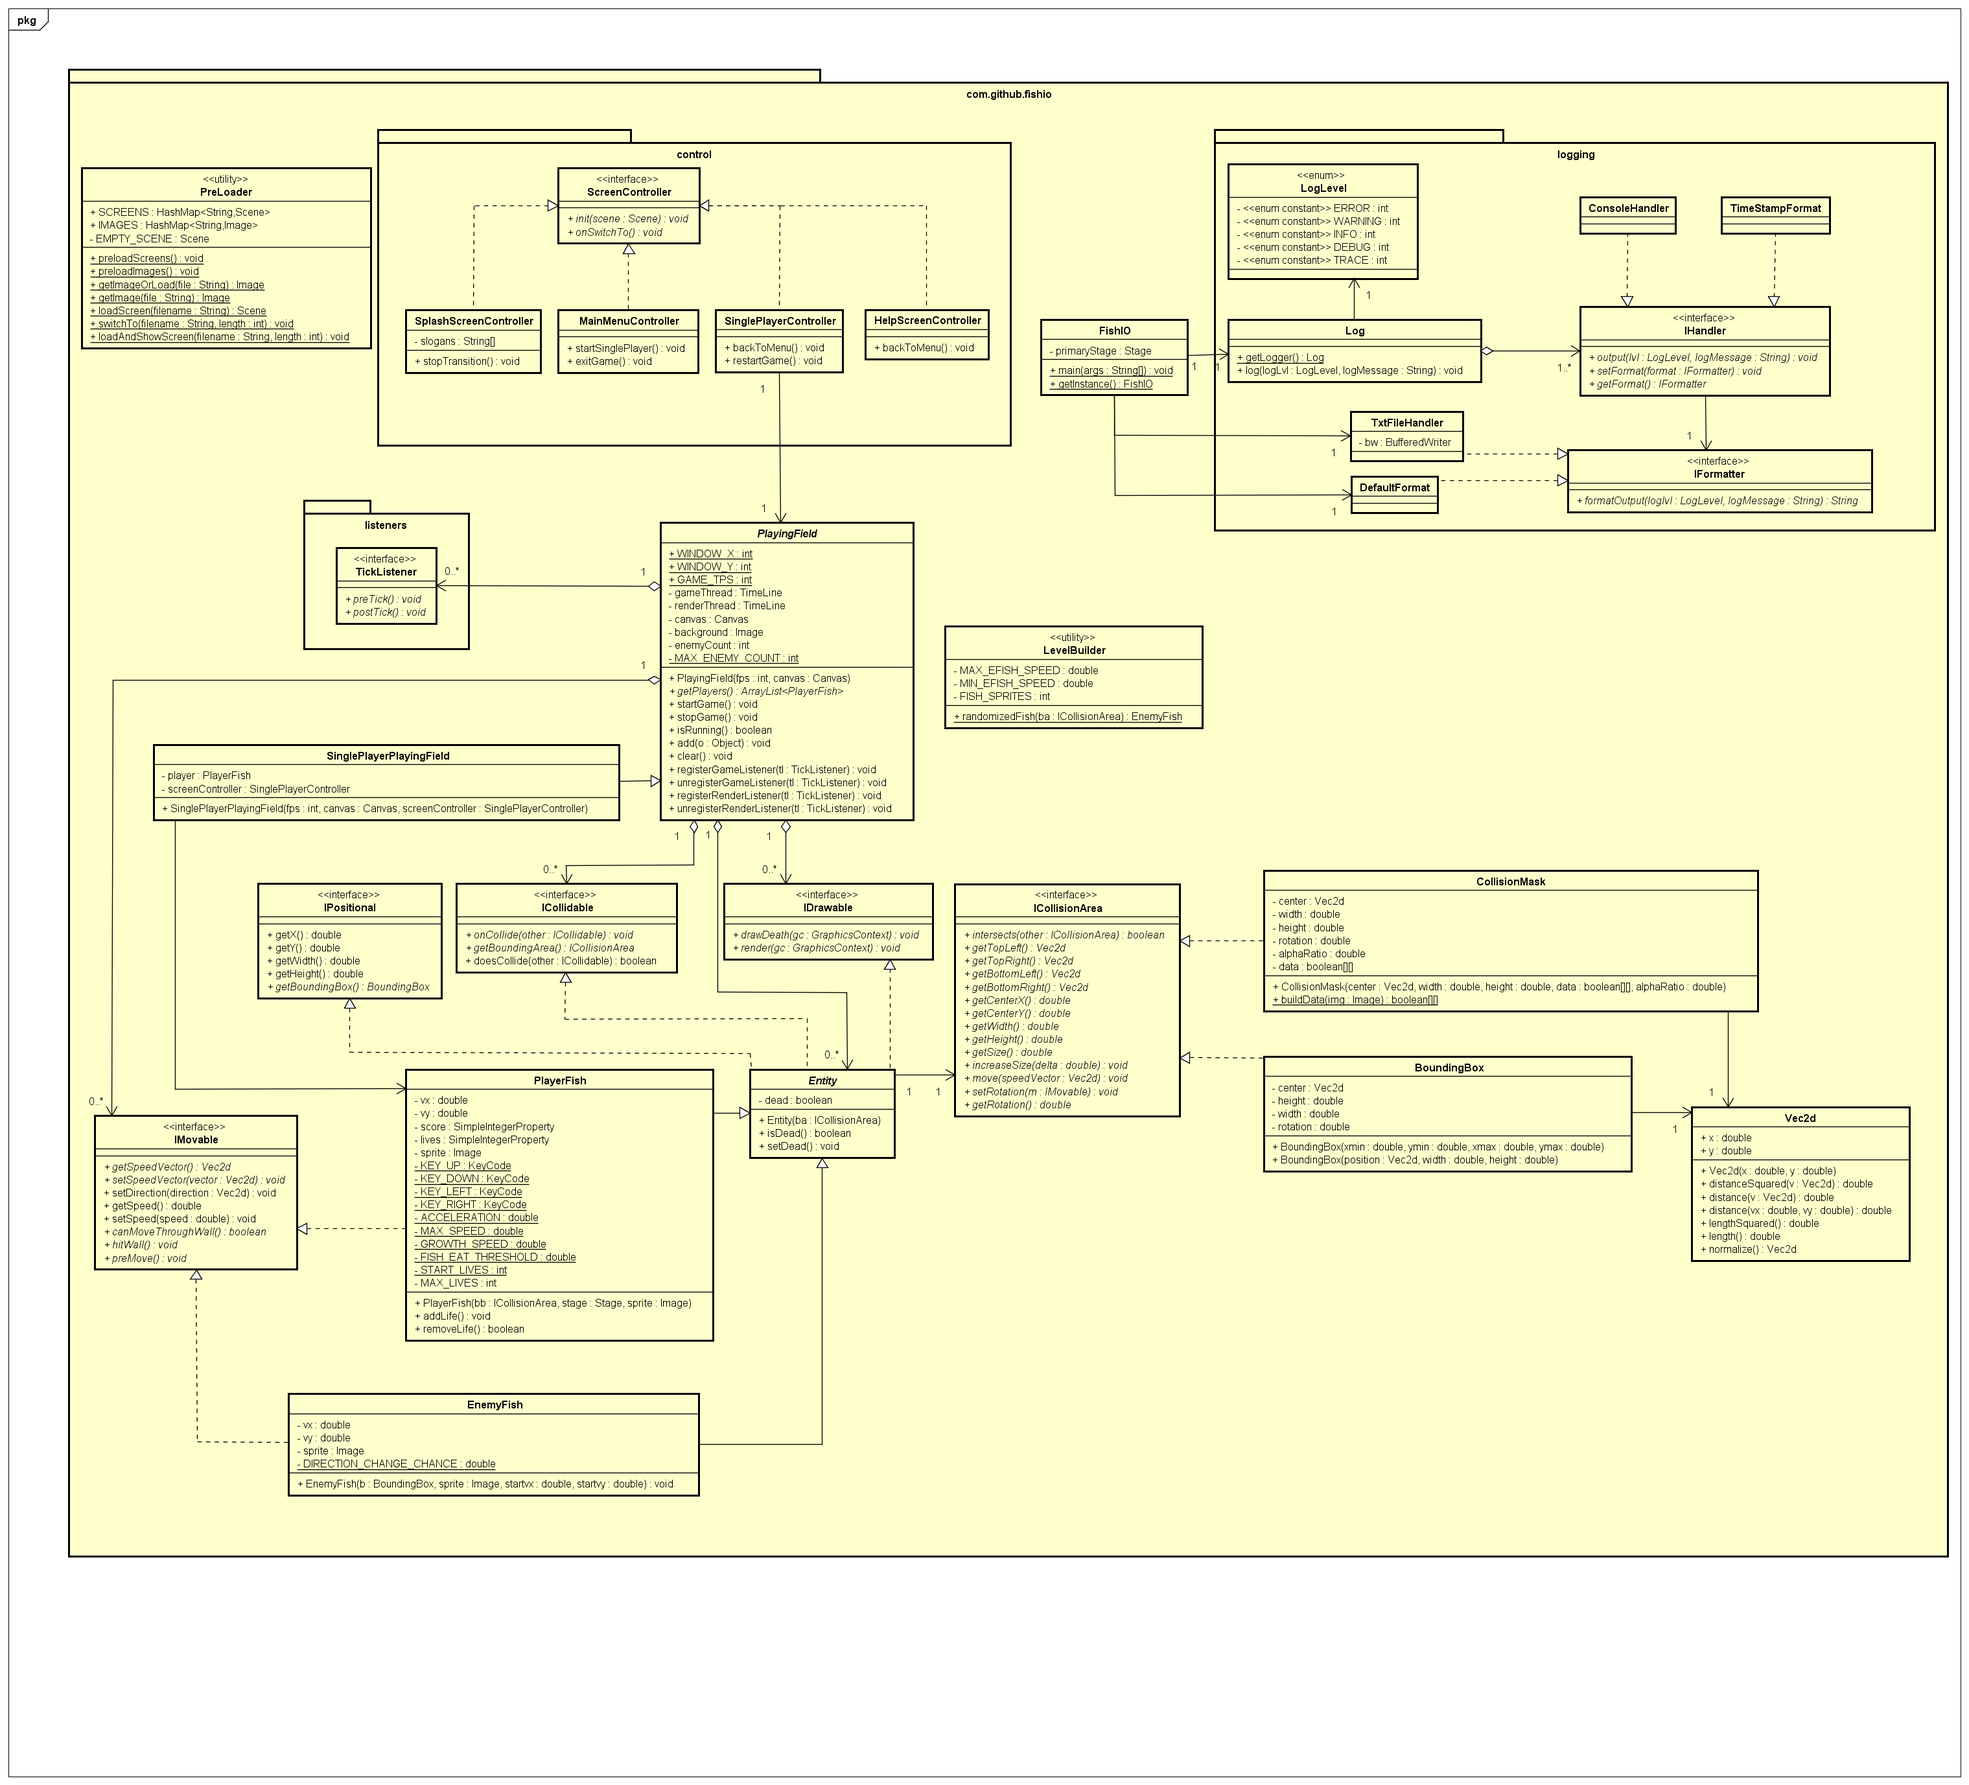
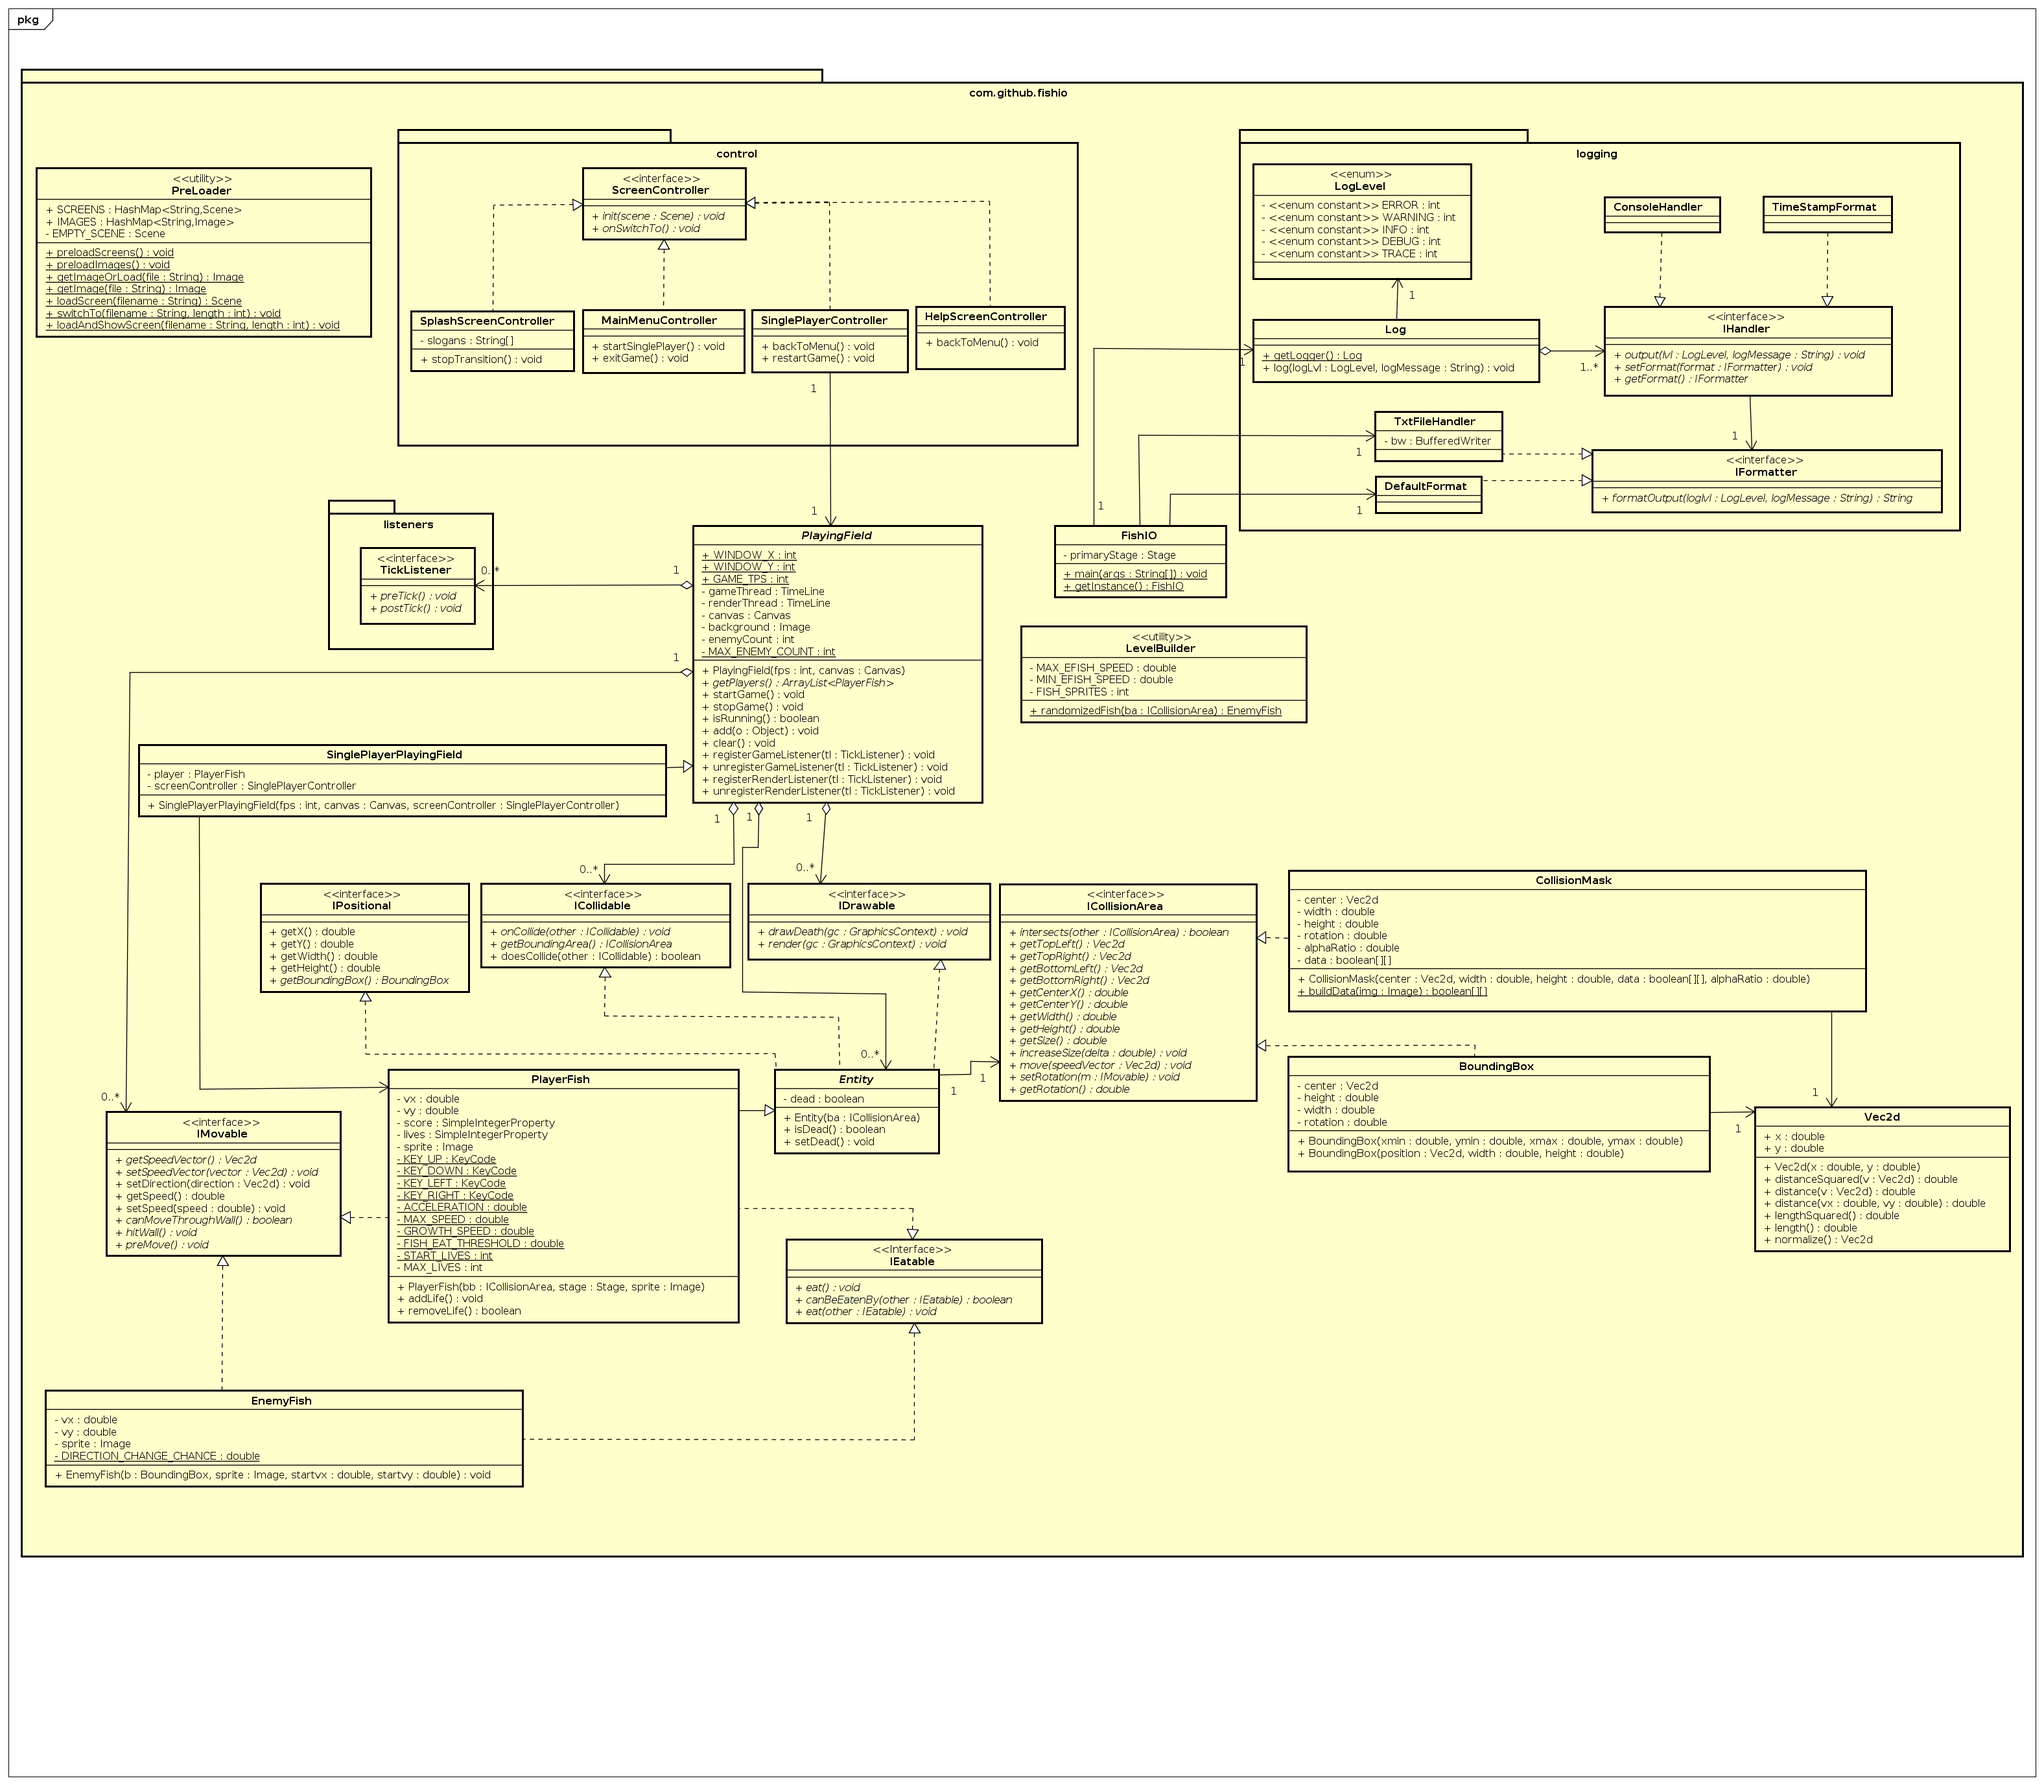
Replaced Fish class with IEatable interface
Replaced the Fish class with the IEatableInterface.
Results in nicer and more flexible code.
Also changed the UML to show the changes.

diff --git a/src/main/java/com/github/fishio/PlayerFish.java b/src/main/java/com/github/fishio/PlayerFish.java
@@ -11,7 +11,7 @@ import javafx.stage.Stage;
  * Represents a fish that the user can control using
  * the keyboard.
  */
-public class PlayerFish extends Fish {
+public class PlayerFish extends Entity implements IEatable, IMovable {
 
 	private double vx;
 	private double vy;
@@ -291,25 +291,18 @@ public class PlayerFish extends Fish {
 
 	@Override
 	public void onCollide(ICollidable other) {
-		if (other instanceof Fish) {
-			Fish fish = (Fish) other;
-			if (fish.isDead()) {
-				return;
-			}
+		if (other instanceof IEatable) {
+			IEatable eatable = (IEatable) other;
+		
+			if (eatable.canBeEatenBy(this)) {
+				eatable.eat();
+				this.addPoints((int) (eatable.getSize() / 200));
+				double dSize = GROWTH_SPEED * eatable.getSize() / getSize();
+				getBoundingArea().increaseSize(dSize);				
+			} 
 
-			double tsize = this.getBoundingArea().getSize();
-			double osize = fish.getBoundingArea().getSize();
-			
-			if (tsize > osize * FISH_EAT_THRESHOLD) {
-				eat(fish);
-				this.addPoints((int) (osize / 200));
-				double dSize = GROWTH_SPEED * osize / tsize;
-				getBoundingArea().increaseSize(dSize);
-			} else if (osize > tsize * FISH_EAT_THRESHOLD) {
-				if (isInvincible()) {
-					return;
-				}
-				fish.eat(this);
+			if (this.canBeEatenBy(eatable)) {
+				eatable.eat(this);
 			}
 		}
 	}
@@ -418,6 +411,27 @@ public class PlayerFish extends Fish {
 	 */
 	public boolean isInvincible() {
 		return invincible != 0L && invincible > System.currentTimeMillis();
+	}
+
+	@Override
+	public boolean canBeEatenBy(IEatable other) {
+		if (isInvincible()) {
+			return false;
+		}		
+		if (other.getSize() > getSize() * FISH_EAT_THRESHOLD) {
+			return true;
+		}
+		return false;
+	}
+
+	@Override
+	public void eat() {
+		kill();
+	}
+
+	@Override
+	public double getSize() {
+		return getBoundingArea().getSize();
 	}
 
 }

diff --git a/src/main/java/com/github/fishio/EnemyFish.java b/src/main/java/com/github/fishio/EnemyFish.java
@@ -10,8 +10,10 @@ import javafx.scene.image.Image;
  * EnemyFish class. This class contains all methods concerning non-player or
  * enemy fish on the screen.
  */
-public class EnemyFish extends Fish {
+public class EnemyFish extends Entity implements IMovable, IEatable {
 
+
+	private static final double FISH_EAT_THRESHOLD = 1.2;
 	private static final double DIRECTION_CHANGE_CHANCE = 0.1;
 
 	private Log logger = Log.getLogger();
@@ -133,5 +135,23 @@ public class EnemyFish extends Fish {
 
 	@Override
 	public void onCollide(ICollidable other) { }
+
+	@Override
+	public boolean canBeEatenBy(IEatable other) {
+		if (other.getSize() > getSize() * FISH_EAT_THRESHOLD) {
+			return true;
+		}
+		return false;
+	}
+
+	@Override
+	public void eat() {
+		kill();
+	}
+
+	@Override
+	public double getSize() {
+		return getBoundingArea().getSize();
+	}
 
 }

diff --git a/src/main/java/com/github/fishio/IEatable.java b/src/main/java/com/github/fishio/IEatable.java
@@ -1,0 +1,37 @@
+package com.github.fishio;
+
+/**
+ * Interface for objects that can eat or can get eaten.
+ */
+public interface IEatable {
+
+	/**
+	 * checks of this object can be eaten by the other object.
+	 * @param other
+	 * 		The object to check for
+	 * @return
+	 * 		True is this can be eaten by other, false otherwise
+	 */
+	boolean canBeEatenBy(IEatable other);
+	
+	/**
+	 * Method called when this is eaten.
+	 */
+	void eat();
+	
+	/**
+	 * Eat the specified eatable.
+	 * Pre: other.canBeEatenBy(this) == true
+	 * @param other
+	 * 		The eatable to eat.
+	 */
+	default void eat(IEatable other) {
+		other.eat();
+	}
+	
+	/**
+	 * @return
+	 * 		The size of this instance.
+	 */
+	double getSize();
+}
